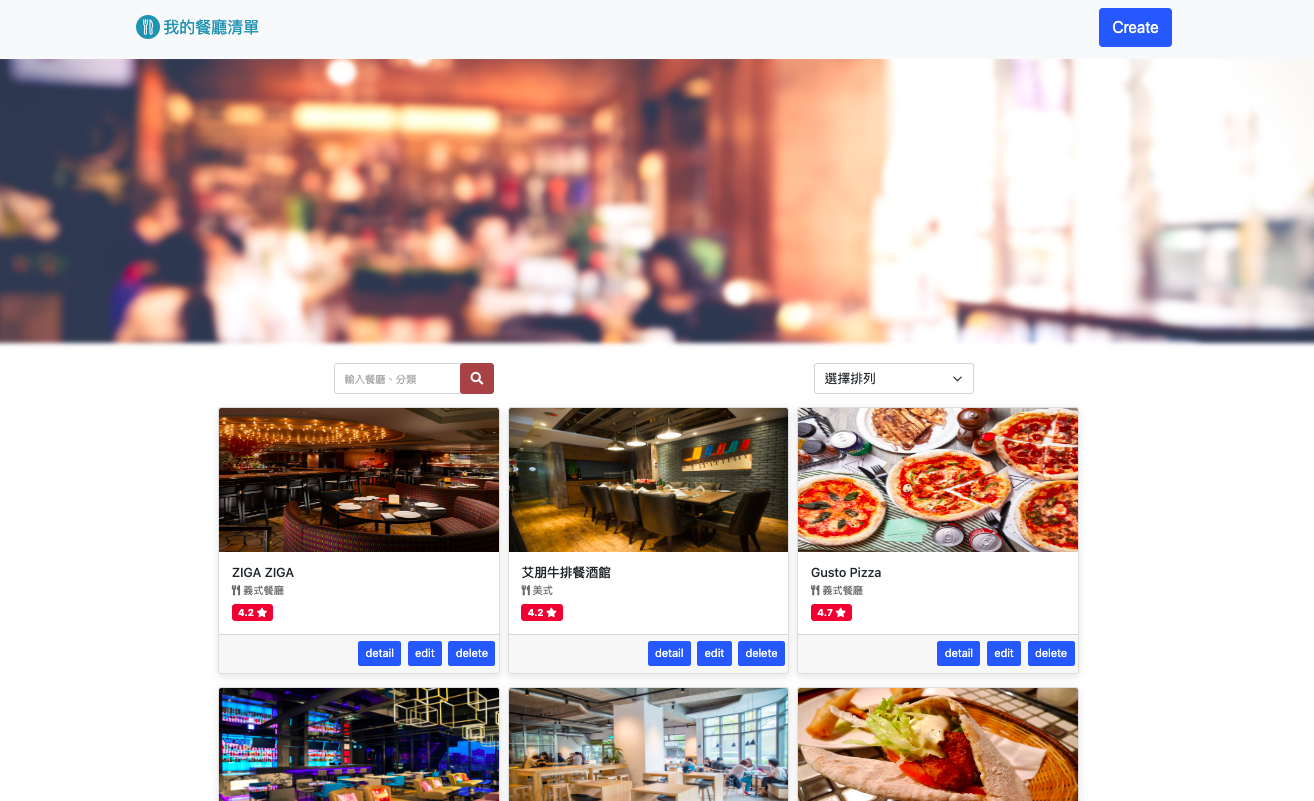
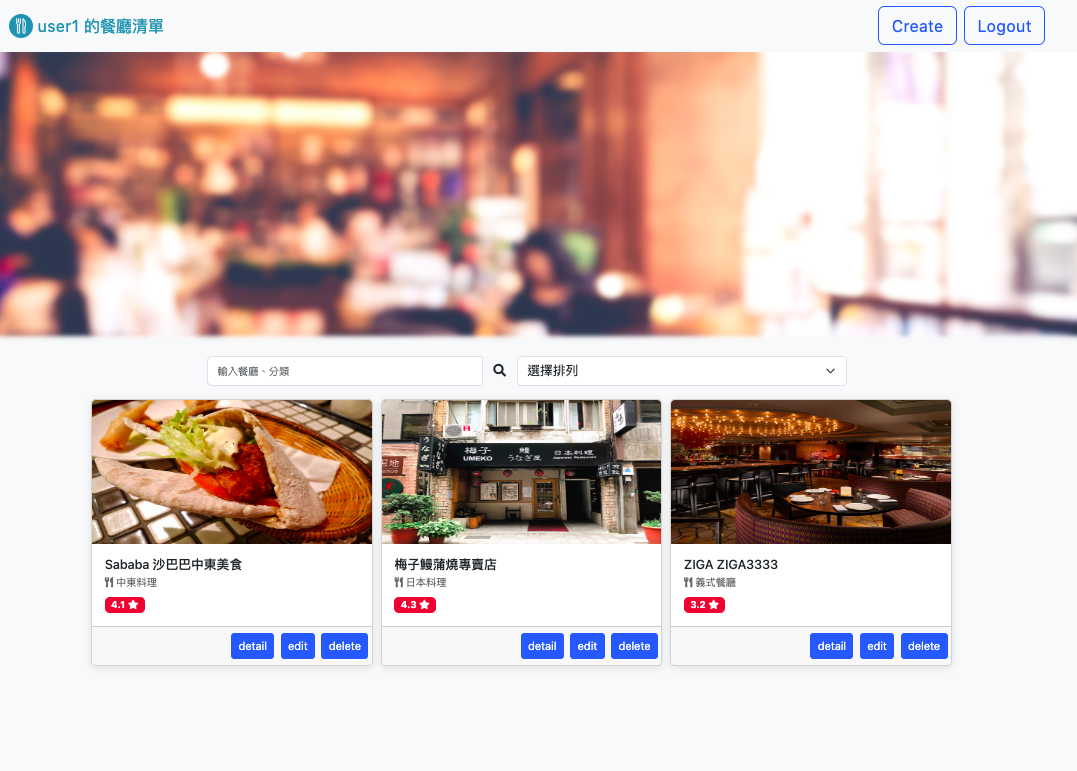
modify README

diff --git a/README.md b/README.md
@@ -1,13 +1,17 @@
 # 我的餐廳清單
-![1](https://raw.githubusercontent.com/Sawd1208/restaurant-list/main/public/image/3.png)
+![1](https://raw.githubusercontent.com/Sawd1208/restaurant-list/main/public/image/1.png)
+![2](https://raw.githubusercontent.com/Sawd1208/restaurant-list/main/public/image/2.png)
+![3](https://raw.githubusercontent.com/Sawd1208/restaurant-list/main/public/image/3.png)
 
 
 
 ## 介紹
-這是一個可以搜尋、瀏覽、新增、編輯餐廳資料以及連結地圖位置的餐廳清單網站
+這是一個可以註冊帳號並且可以登入的美食收藏網站，你可以搜尋、瀏覽、新增、編輯餐廳資料以及連結地圖位置的餐廳清單網站。
 
 ## 特點
-- 查看所有的餐廳
+- 註冊、登入帳號
+- 可以使用臉書帳號登入
+- 查看自己帳號收藏的餐廳
 - 使用關鍵字查找餐廳名稱及類別
 - 自定義排序餐廳
 - 瀏覽更詳細的餐廳資料
@@ -33,14 +37,25 @@ Express is listening on http://localhost:3000
 ```
 ctrl + c
 ```
+6. 製作種子資料：
+```
+npm run seed
+```
 
 ## 開發工具
-- Node.js 18.15.0
-- Express 4.18.2
-- Express-handlebars 5.3.5
-- Bootstrap 5.1.3
-- Font-awesome 5.8.1
+- node.js 18.15.0
+- express 4.18.2
+- express-handlebars 5.3.5
+- express-session 1.17.1
+- handlebars-helpers 0.10.0
+- bootstrap 5.1.3
+- font-awesome 5.8.1
 - body-parser 1.20.2
 - dotenv 16.0.3
 - mongoose 7.1.0
 - method-override 3.0.0
+- bcryptjs 2.4.3
+- connect-flash 0.1.1
+- passport 0.4.1,
+- passport-facebook 3.0.0
+- passport-local 1.0.0
